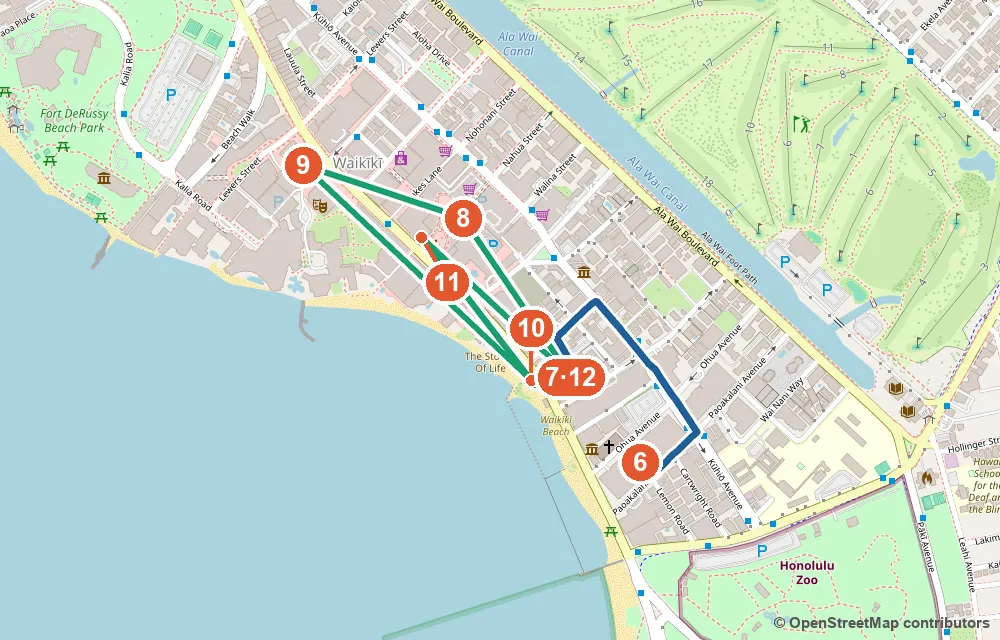
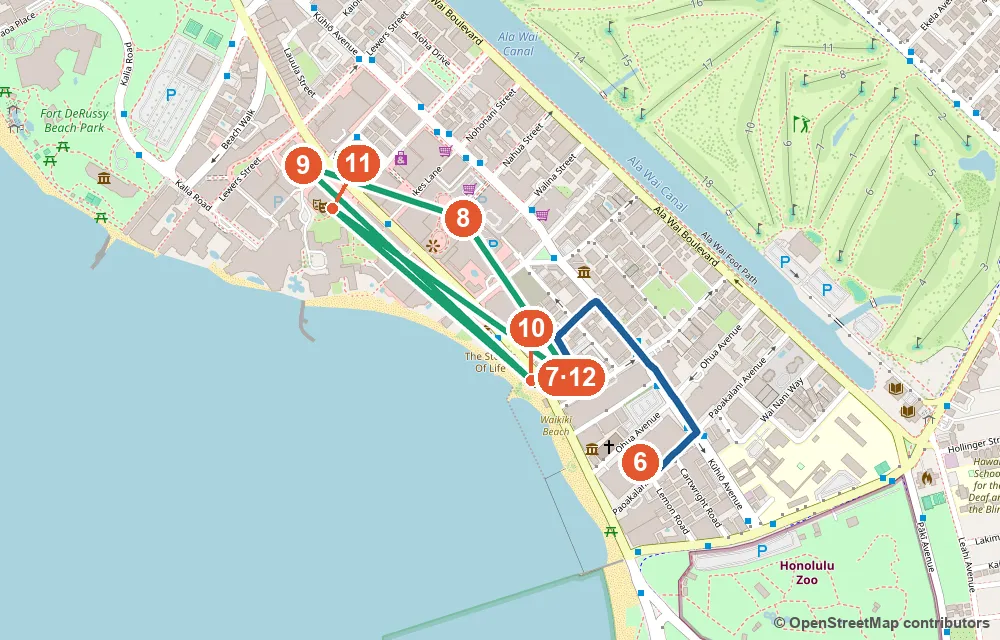
feat: 11/7 Suntory dinner + Diamond Head 14:00 booked

Changed region(s): [[0.31, 0.2188, 0.558, 0.5938]]

diff --git a/index.html b/index.html
@@ -12,7 +12,7 @@
 // GitHub Pages 는 HTML 을 10분 캐시한다(헤더는 못 바꿈) → 열 때마다 version.json 을 캐시 없이 확인해
 // 새 버전이면 주소에 ?v=버전 을 붙여 한 번만 새로 불러온다 (같은 버전으로 이미 시도했으면 멈춤)
 (function () {
-  var BUILD = '3ebc5ff00c';
+  var BUILD = 'e0d11f550a';
   try {
     fetch('version.json?t=' + Date.now(), { cache: 'no-store' })
       .then(function (r) { return r.ok ? r.json() : null; })
@@ -337,7 +337,7 @@ footer { max-width: 1100px; margin: 0 auto; padding: 0 16px 48px; color: var(--m
 
 <div class="wx-summary">🌤 <b>날씨</b> 낮 27~30°C · 밤 21~24°C · 비 확률 대부분 15~30% (11/10만 65%, 짧은 소나기) · 동북동 무역풍 낮 평균 초속 5~8m · 돌풍 15~19m (모자 턱끈) · 일몰 17:52 — <span>미국 기상청 + Open-Meteo 수치모델 (11/3) · 날짜별 비 확률·기온·바람은 각 일정 맨 위에</span></div>
 <section class="sec alert"><div class="sec-head"><span class="sec-ic">🚨</span><h2 id="지금-예약확인할-것">지금 예약·확인할 것</h2></div>
-<div class="todo-grid"><div class="todo"><span class="when">예약 🔁 <strong>다시 예약 (11/5 중)</strong></span><h4><strong>다이아몬드헤드</strong> 입장+주차</h4><div class="visit">📅 <span>가는 날</span> <strong>11/7 (토) 14:00–16:00 주차 슬롯</strong> · 5명 입장 (10:00 예약은 취소 — 작은형 오전 개인 일정)</div><div class="where"><a href="https://gostateparks.hawaii.gov/diamondhead" target="_blank" rel="noopener">gostateparks.hawaii.gov/diamondhead</a></div><div class="memo"><strong>14:30까지 주차장 도착</strong> · $5×5 + 주차 $10 = $35 · 입장 QR 1회용 → 티켓을 내려받아 폰에 저장</div></div><div class="todo"><span class="when">예약 ✅ <strong>예약 완료 (작은형)</strong></span><h4><strong>USS Arizona</strong> (진주만)</h4><div class="visit">📅 <span>가는 날</span> <strong>11/5 (목) 10:45 투어</strong> · 5명</div><div class="where"><a href="https://recreation.gov" target="_blank" rel="noopener">recreation.gov</a></div><div class="memo"><strong>09:45까지 방문자센터 도착</strong> (공식: 1시간 전) · 극장 체크인 10:45의 10~15분 전 · 가방 반입 금지 (지갑·폰·물병만) · 주차 $7</div></div><div class="todo"><span class="when">예약 지금</span><h4>저녁 예약 (5명)</h4><div class="visit">📅 <span>가는 날</span> <del>11/4 DECK.</del> (❌ 취소 — 마루가메 우동으로) · <strong>11/6 (금) 17:00</strong> Buzz's · <strong>11/7 (토) 19:15</strong> 🍺 Maui Brewing 와이키키 (훌라 쇼 뒤)</div><div class="where">전화·OpenTable</div><div class="memo">Buzz's ☎ 808-261-4661 · 🍝 <strong>11/5 Arancino di Mare</strong> (메리어트 1층)는 OpenTable 예약 권장 — <del>Yard House</del>는 뺌 (11/4) · 11/9 Waikiki Brewing은 <strong>예약 없이</strong> 바로 가요</div></div><div class="todo"><span class="when">예약 지금</span><h4>아침 예약 (5명)</h4><div class="visit">📅 <span>가는 날</span> <strong>11/8 (일) 08:00</strong> Duke's 조식 뷔페 · <strong>11/10 (화) 07:15</strong> Heavenly</div><div class="where">OpenTable · 전화</div><div class="memo">Duke's 조식 성인 $29 (07:00–11:00) · Heavenly는 아침 5인 예약 되는지 전화로 확인 (☎ 808-923-1100)</div></div><div class="todo"><span class="when">예약 지금</span><h4>PCC 패키지 (5명)</h4><div class="visit">📅 <span>가는 날</span> <strong>11/10 (화)</strong> 12:25 도착 · 루아우 16:40경 · 공연 19:15</div><div class="where"><a href="https://polynesia.com" target="_blank" rel="noopener">polynesia.com</a></div><div class="memo">일·수 휴무 · 운전 부담 크면 PCC 왕복 버스 $28/인</div></div></div>
+<div class="todo-grid"><div class="todo"><span class="when">예약 ✅ <strong>예약 완료 (11/5)</strong></span><h4><strong>다이아몬드헤드</strong> 입장+주차</h4><div class="visit">📅 <span>가는 날</span> <strong>11/7 (토) 14:00–16:00 주차 + 5명 입장</strong> · $35 결제 끝</div><div class="where"><a href="https://gostateparks.hawaii.gov/diamondhead" target="_blank" rel="noopener">gostateparks.hawaii.gov/diamondhead</a></div><div class="memo"><strong>14:30까지 주차장 도착</strong> (주차 시간 시작 30분 안 — 늦으면 환불 불가) · 입장 QR 1회용 → 티켓 내려받아 폰에 저장</div></div><div class="todo"><span class="when">예약 ✅ <strong>예약 완료 (작은형)</strong></span><h4><strong>USS Arizona</strong> (진주만)</h4><div class="visit">📅 <span>가는 날</span> <strong>11/5 (목) 10:45 투어</strong> · 5명</div><div class="where"><a href="https://recreation.gov" target="_blank" rel="noopener">recreation.gov</a></div><div class="memo"><strong>09:45까지 방문자센터 도착</strong> (공식: 1시간 전) · 극장 체크인 10:45의 10~15분 전 · 가방 반입 금지 (지갑·폰·물병만) · 주차 $7</div></div><div class="todo"><span class="when">예약 지금</span><h4>저녁 예약 (5명)</h4><div class="visit">📅 <span>가는 날</span> <del>11/4 DECK.</del> (❌ 취소 — 마루가메 우동으로) · <strong>11/6 (금) 17:00</strong> Buzz's · <strong>11/7 (토) 19:15</strong> 🍚 <strong>Suntory</strong> (일식 · 훌라 쇼 뒤 · OpenTable)</div><div class="where">전화·OpenTable</div><div class="memo">Buzz's ☎ 808-261-4661 · 🍝 <strong>11/5 Arancino di Mare</strong> (메리어트 1층)는 OpenTable 예약 권장 — <del>Yard House</del>는 뺌 (11/4) · 11/9 Waikiki Brewing은 <strong>예약 없이</strong> 바로 가요</div></div><div class="todo"><span class="when">예약 지금</span><h4>아침 예약 (5명)</h4><div class="visit">📅 <span>가는 날</span> <strong>11/8 (일) 08:00</strong> Duke's 조식 뷔페 · <strong>11/10 (화) 07:15</strong> Heavenly</div><div class="where">OpenTable · 전화</div><div class="memo">Duke's 조식 성인 $29 (07:00–11:00) · Heavenly는 아침 5인 예약 되는지 전화로 확인 (☎ 808-923-1100)</div></div><div class="todo"><span class="when">예약 지금</span><h4>PCC 패키지 (5명)</h4><div class="visit">📅 <span>가는 날</span> <strong>11/10 (화)</strong> 12:25 도착 · 루아우 16:40경 · 공연 19:15</div><div class="where"><a href="https://polynesia.com" target="_blank" rel="noopener">polynesia.com</a></div><div class="memo">일·수 휴무 · 운전 부담 크면 PCC 왕복 버스 $28/인</div></div></div>
 
 </section><section class="sec flight"><div class="sec-head"><span class="sec-ic">✈</span><h2 id="항공-서울팀-3명-현지-시각">항공</h2><small>서울팀 3명 (현지 시각)</small></div>
 <div class="tickets"><div class="ticket"><div class="tk-top"><span>가는 편</span><b>KE053</b></div><div class="route"><div class="city"><small>11/4 (수)</small><b>20:50</b><span>ICN · 인천 T2</span></div><div class="plane">✈</div><div class="city r"><small>11/4 (수)</small><b>09:40</b><span>HNL · 호놀룰루</span></div></div><div class="tk-meta"><div><span>공항 도착 목표</span><b>17:50</b></div><div><span>체크인 마감</span><b>19:50</b></div><div><span>탑승 시작</span><b>20:15</b></div></div></div><div class="ticket"><div class="tk-top"><span>오는 편</span><b>KE054</b></div><div class="route"><div class="city"><small>11/11 (수)</small><b>12:05</b><span>HNL · 호놀룰루</span></div><div class="plane">✈</div><div class="city r"><small>11/12 (목)</small><b>17:35</b><span>ICN · 인천 T2</span></div></div><div class="tk-meta"><div><span>공항 도착 목표</span><b>08:20</b></div><div><span>체크인 마감</span><b>출발 1시간 전</b></div><div><span>탑승 시작</span><b>11:30</b></div></div></div></div>
@@ -351,7 +351,7 @@ footer { max-width: 1100px; margin: 0 auto; padding: 0 16px 48px; color: var(--m
 </section><section class="sec hotel"><div class="sec-head"><span class="sec-ic">🏨</span><h2 id="숙소-메리어트-3박-비치타워-콘도-4박-걸어서-3분">숙소</h2><small>메리어트 3박 · 비치타워 콘도 4박 (걸어서 3분)</small></div>
 <div class="tickets"><div class="hotel"><div class="tk-top"><span>11/4 (수) – 11/7 (토) · 3박 · 아고다</span></div><div class="ht-name">와이키키 비치 메리어트 리조트 &amp; 스파</div><div class="ht-times"><div><span>체크인</span><b>15:00</b><small>11/4 (수)</small></div><div><span>체크아웃</span><b>11:00</b><small>11/7 (토)</small></div></div><dl class="ht-facts"><dt>☎ 전화</dt><dd><ul class="ht-fac"><li>한국에서 <strong>001-1-808-922-6611</strong> (KT 001 · LG U+ 002 · SK 00700)</li><li>휴대폰은 <strong><a href="tel:+18089226611">+1 808 922 6611</a></strong> (누르면 바로 걸려요)</li><li>프런트 24시간 · 하와이는 한국보다 19시간 늦어요</li></ul></dd><dt>🛏 방</dt><dd><strong>객실 2개 예약 확정</strong> — 방 1: 시티뷰 퀸 1 또는 더블 2 (성인 2) · 방 2: 와이키키 시티뷰 킹 1 + 소파베드, 발코니 (성인 3) — <strong>침대는 킹 1 + 소파베드뿐</strong> (추가 침대·침대 2개 방 변경 안 됨, 11/3 확인)</dd><dt>🚿 욕실</dt><dd>객실마다 1개</dd><dt>🍳 조식</dt><dd><strong>방마다 성인 2명 포함</strong> (전화 확인 11/3) — 2번 방 세 번째 사람은 <strong>추가 요금</strong> · 2층 Kuhio Beach Grill 뷔페 (05:00–11:00)</dd><dt>🅿 주차</dt><dd><strong>호텔 셀프 주차</strong> $65/일 · 발렛 $80/일 (세금 별도 · 셀프 3박 약 $204) — 근처 반얀 주차장은 24시간 $50 (공사 중 요금 · 높이 183cm 제한)이라 하루 $15 정도 차이 · ⚠ 후기: 셀프 주차장이 좁고 자주 꽉 차서 발렛으로 돌린 일, SUV가 높아 못 들어가 발렛 쓴 일 있음 (2024~2026) · <strong>미리 예약 필요 없음</strong> (11/3 호텔 확인)</dd><dt>🏝 시설</dt><dd><ul class="ht-fac"><li>🏊 <strong>수영장 2개</strong> — 옥상 Queensbreak에 가족 풀 + 21세 이상 성인 풀, 온수 욕조 (07:00–22:00)</li><li>🍽 <strong>식당·바·카페 7곳</strong> — Kuhio Beach Grill (조식 뷔페 05–11, 2층) · Arancino di Mare (이탈리안 저녁 17–21) · Queensbreak 레스토랑·풀사이드 바 (옥상 11–23) · 스타벅스 2곳 · Island Vintage 셰이브아이스 — Sansei·DK Steakhouse는 2025.9 폐업</li><li>🛒 <strong>ABC 스토어</strong> (로비층 편의점)</li><li>🧺 <strong>셀프 세탁실</strong> (Paoakalani 타워 2층) — 세탁·건조 각 $6.50 (2026.5 투숙 후기), 카드 결제 · 드라이클리닝 서비스 별도</li><li>💆 Royal Kaila 스파 (09–18) · 피트니스 24시간</li><li>🌺 우쿨렐레·훌라·레이 만들기 수업 (리조트피 포함)</li><li>🎭 Paina Waikiki 루아우 디너쇼 (월·수·금·토·일, 별도 예약)</li><li>🗣 일본어 직원 있음 · 한국어 직원 없음 (11/3 전화 확인)</li></ul></dd></dl><ul class="ht-notes"><li>11/4 체크인 전·11/7 체크아웃 뒤 <strong>벨데스크 짐 보관</strong></li><li>리조트피 객실당 1박 $59 + 세금 (약 $70, 현장 결제 — Wi-Fi·비치체어 또는 부기보드·문화 수업 포함)</li><li>체크인은 예약자 본인 여권 + 실물 카드</li></ul></div><div class="hotel"><div class="tk-top"><span>11/7 (토) – 11/11 (수) · 4박</span></div><div class="ht-name">와이키키 비치 타워 콘도 (에어비앤비)</div><div class="ht-times"><div><span>체크인</span><b>15:00</b><small>11/7 (토)</small></div><div><span>체크아웃</span><b>11:00</b><small>11/11 (수)</small></div></div><dl class="ht-facts"><dt>☎ 전화</dt><dd><ul class="ht-fac"><li>관리 회사(캡틴 쿡 리조트)는 <strong>에어비앤비 앱 메시지</strong></li><li>관리자 전화번호는 11/5 15:00(하와이)부터 앱의 입실 안내에 나와요</li></ul></dd><dt>🛏 방</dt><dd><strong>침실 2개</strong> — 안방 킹 1 · 게스트룸 트윈 2 (요청 시 킹 1) · 거실 퀸 소파베드 · 최대 6명 · 실내 약 107㎡ + 오션뷰 발코니</dd><dt>🚿 욕실</dt><dd><strong>2개</strong> (안방 전용 1 + 공용 1)</dd><dt>🍳 조식</dt><dd>없음 — 주방 완비, 아침은 장봐서</dd><dt>🅿 주차</dt><dd><strong>발렛 1대 무료</strong> (차 높이 188cm까지, 셔틀 크기 밴 불가) · 차량 사전 등록 필요 없음 · 머무는 동안만 · 리조트피 없음</dd><dt>🏝 시설</dt><dd><ul class="ht-fac"><li>🧺 집 안 <strong>세탁기·건조기</strong> (무료)</li><li>🏊 건물 수영장·스파·피트니스</li><li>🍳 주방 완비</li></ul></dd></dl><ul class="ht-notes"><li>체크인·체크아웃 시각은 <strong>에어비앤비 예약·호스트 안내 기준</strong></li><li>도착 후 <strong>관리자에게 전화</strong>해서 체크인</li><li>매일 청소·수건 보충 없음</li><li>커피·조미료·식용유·지퍼백 없음</li></ul></div></div>
 </section><section class="sec overview"><div class="sec-head"><span class="sec-ic">🗓</span><h2 id="1-한눈에-보기">한눈에 보기</h2></div>
-<div class="ov-grid"><a class="ov c0" href="#114-수-도착-짐부터-호텔에-가볍게"><div class="ov-head"><b>11/4</b><em>수</em><span>도착</span></div><ul><li><i>🛍</i>월마트 / 돈키호테 (장보기)</li><li><i>🍳</i>기내</li><li><i>🍱</i>Highway Inn 카카아코</li><li><i>🍽</i>🌅 DECK. 일몰 (17:30)</li></ul></a><a class="ov c1" href="#115-목-진주만-와이켈레-아울렛"><div class="ov-head"><b>11/5</b><em>목</em><span>진주만</span></div><ul><li><i>🛍</i><strong>와이켈레 아울렛</strong></li><li><i>🍳</i>메리어트 조식</li><li><i>🍱</i>Restaurant 604</li><li><i>🍽</i>🍝 Arancino (호텔 1층)</li></ul></a><a class="ov c2" href="#116-금-동부-해안-카일루아-해안-먼저-저녁은-카일루아"><div class="ov-head"><b>11/6</b><em>금</em><span>동부 해안</span></div><ul><li><i>🥾</i><strong>마카푸우 등대</strong> · (선택, 아들) 라니카이 필박스</li><li><i>🛍</i><strong>카일루아</strong> 마노아 초콜릿·Whole Foods·타운</li><li><i>🍳</i>메리어트 조식</li><li><i>🍱</i>Kalapawai Café</li><li><i>🍽</i><strong>Buzz's</strong> (예약)</li></ul></a><a class="ov c3" href="#117-토-kcc-파머스마켓-다이아몬드헤드-알라모아나-숙소-이동"><div class="ov-head"><b>11/7</b><em>토</em><span>이동일</span></div><ul><li><i>🥾</i><strong>다이아몬드헤드</strong> (오후 14시 · 다시 예약)</li><li><i>🛍</i><strong>KCC 파머스마켓 · 🖼 호놀룰루 미술관 · 알라모아나</strong> · 저녁 전 IMP·로열 하와이안 (걸어서)</li><li><i>🍳</i>메리어트 조식</li><li><i>🍱</i>릴리하 베이커리 (알라모아나)</li><li><i>🍽</i>🌺 훌라 쇼 → 🍺 <strong>Maui Brewing</strong></li></ul></a><a class="ov c4" href="#118-일-노스쇼어-종일"><div class="ov-head"><b>11/8</b><em>일</em><span>노스쇼어</span></div><ul><li><i>🥾</i><strong>와이메아 밸리 폭포</strong> · 헤이아우 전망</li><li><i>🛍</i><strong>할레이바 타운</strong> · 돌 플랜테이션</li><li><i>🍳</i>Duke's 조식 뷔페</li><li><i>🍱</i>Giovanni's</li><li><i>🍽</i>Haleiwa Joe's (노을)</li></ul></a><a class="ov c5" href="#119-월-서쪽-해안-93번-드라이브-쇼핑-와이키키-마지막-여유일"><div class="ov-head"><b>11/9</b><em>월</em><span>서쪽 해안·쇼핑</span></div><ul><li><i>🥾</i><strong>93번 서쪽 해안 드라이브</strong> (코올리나 라군·마카하·요코하마 베이)</li><li><i>🛍</i><strong>워드 빌리지 · 돈키호테·월마트</strong></li><li><i>🍳</i>Café Kaila / Hau Tree</li><li><i>🍱</i>Monkeypod Kitchen (코올리나)</li><li><i>🍽</i>🍺 <strong>Waikiki Brewing</strong></li></ul></a><a class="ov c6" href="#1110-화-뵤도인-폴리네시안-문화센터-pcc"><div class="ov-head"><b>11/10</b><em>화</em><span>PCC</span></div><ul><li><i>🥾</i><strong>팔리 전망대 · 뵤도인 사원</strong> (또는 호오말루히아)</li><li><i>🛍</i>후킬라우 마켓플레이스</li><li><i>🍳</i>Heavenly (07:00~)</li><li><i>🍱</i>Seven Brothers / Giovanni's 카후쿠</li><li><i>🍽</i>PCC 루아우</li></ul></a><a class="ov c7" href="#1111-수-출발-veterans-day-공휴일"><div class="ov-head"><b>11/11</b><em>수</em><span>출발</span></div><ul><li><i>🍳</i>Eggs 'n Things 포장 (06:00)</li><li><i>🍱</i>기내</li></ul></a></div>
+<div class="ov-grid"><a class="ov c0" href="#114-수-도착-짐부터-호텔에-가볍게"><div class="ov-head"><b>11/4</b><em>수</em><span>도착</span></div><ul><li><i>🛍</i>월마트 / 돈키호테 (장보기)</li><li><i>🍳</i>기내</li><li><i>🍱</i>Highway Inn 카카아코</li><li><i>🍽</i>🌅 DECK. 일몰 (17:30)</li></ul></a><a class="ov c1" href="#115-목-진주만-와이켈레-아울렛"><div class="ov-head"><b>11/5</b><em>목</em><span>진주만</span></div><ul><li><i>🛍</i><strong>와이켈레 아울렛</strong></li><li><i>🍳</i>메리어트 조식</li><li><i>🍱</i>Restaurant 604</li><li><i>🍽</i>🍝 Arancino (호텔 1층)</li></ul></a><a class="ov c2" href="#116-금-동부-해안-카일루아-해안-먼저-저녁은-카일루아"><div class="ov-head"><b>11/6</b><em>금</em><span>동부 해안</span></div><ul><li><i>🥾</i><strong>마카푸우 등대</strong> · (선택, 아들) 라니카이 필박스</li><li><i>🛍</i><strong>카일루아</strong> 마노아 초콜릿·Whole Foods·타운</li><li><i>🍳</i>메리어트 조식</li><li><i>🍱</i>Kalapawai Café</li><li><i>🍽</i><strong>Buzz's</strong> (예약)</li></ul></a><a class="ov c3" href="#117-토-kcc-파머스마켓-다이아몬드헤드-알라모아나-숙소-이동"><div class="ov-head"><b>11/7</b><em>토</em><span>이동일</span></div><ul><li><i>🥾</i><strong>다이아몬드헤드</strong> (오후 14시 · 다시 예약)</li><li><i>🛍</i><strong>KCC 파머스마켓 · 🖼 호놀룰루 미술관 · 알라모아나</strong> · 저녁 전 IMP·로열 하와이안 (걸어서)</li><li><i>🍳</i>메리어트 조식</li><li><i>🍱</i>릴리하 베이커리 (알라모아나)</li><li><i>🍽</i>🌺 훌라 쇼 → 🍚 <strong>Suntory</strong> (일식)</li></ul></a><a class="ov c4" href="#118-일-노스쇼어-종일"><div class="ov-head"><b>11/8</b><em>일</em><span>노스쇼어</span></div><ul><li><i>🥾</i><strong>와이메아 밸리 폭포</strong> · 헤이아우 전망</li><li><i>🛍</i><strong>할레이바 타운</strong> · 돌 플랜테이션</li><li><i>🍳</i>Duke's 조식 뷔페</li><li><i>🍱</i>Giovanni's</li><li><i>🍽</i>Haleiwa Joe's (노을)</li></ul></a><a class="ov c5" href="#119-월-서쪽-해안-93번-드라이브-쇼핑-와이키키-마지막-여유일"><div class="ov-head"><b>11/9</b><em>월</em><span>서쪽 해안·쇼핑</span></div><ul><li><i>🥾</i><strong>93번 서쪽 해안 드라이브</strong> (코올리나 라군·마카하·요코하마 베이)</li><li><i>🛍</i><strong>워드 빌리지 · 돈키호테·월마트</strong></li><li><i>🍳</i>Café Kaila / Hau Tree</li><li><i>🍱</i>Monkeypod Kitchen (코올리나)</li><li><i>🍽</i>🍺 <strong>Waikiki Brewing</strong></li></ul></a><a class="ov c6" href="#1110-화-뵤도인-폴리네시안-문화센터-pcc"><div class="ov-head"><b>11/10</b><em>화</em><span>PCC</span></div><ul><li><i>🥾</i><strong>팔리 전망대 · 뵤도인 사원</strong> (또는 호오말루히아)</li><li><i>🛍</i>후킬라우 마켓플레이스</li><li><i>🍳</i>Heavenly (07:00~)</li><li><i>🍱</i>Seven Brothers / Giovanni's 카후쿠</li><li><i>🍽</i>PCC 루아우</li></ul></a><a class="ov c7" href="#1111-수-출발-veterans-day-공휴일"><div class="ov-head"><b>11/11</b><em>수</em><span>출발</span></div><ul><li><i>🍳</i>Eggs 'n Things 포장 (06:00)</li><li><i>🍱</i>기내</li></ul></a></div>
 
 </section><section class="sec days"><div class="sec-head"><span class="sec-ic">📍</span><h2 id="2-날짜별-상세-시간-장소-주차">날짜별 상세</h2><small>시간 · 장소 · 주차</small></div>
 <blockquote>
@@ -403,7 +403,7 @@ footer { max-width: 1100px; margin: 0 auto; padding: 0 16px 48px; color: var(--m
 </ul>
 </div></article><article class="day c3" data-date="11/7"><div class="day-head"><div class="date-badge"><b>11/7</b><span>토요일</span></div><div class="day-title"><h3 id="117-토-kcc-파머스마켓-다이아몬드헤드-알라모아나-숙소-이동">KCC 파머스마켓 → 다이아몬드헤드 → 알라모아나 → 숙소 이동</h3></div></div><div class="day-body">
 <p class="wx">🌤 다이아몬드헤드 ☔ 19% · 🌡 24~29°C · 💨 평균 초속 6m · 돌풍 18m (북동) — 오전 한때 소나기 뒤 갬 · 그늘 없음 → 물·모자 필수</p>
-<figure class="routemap"><img src="maps/1107.webp?v=0a1d0755c6" loading="lazy" width="1000" height="640" alt="11/7 지도"><figcaption><div class="rm-stops"><b>①</b> 메리어트 → <b>②</b> KCC 파머스마켓 → <b>③</b> 호놀룰루 미술관 → <b>④</b> 알라모아나 센터 → <b>⑤</b> 다이아몬드헤드 → <b>⑥</b> 메리어트 → <b>⑦</b> 비치타워 콘도 → <b>⑧</b> 인터내셔널 마켓 플레이스 → <b>⑨</b> 로열 하와이안 센터 → <b>⑩</b> 쿠히오 비치 훌라 쇼 → <b>⑪</b> Maui Brewing → <b>⑫</b> 비치타워 콘도</div><div class="rm-meta">🚗 하루 운전 약 24km · 막히지 않으면 약 51분 · 파란 선 = 차 · 초록 선 = 걷기</div><div class="rm-links">🧭 구글 지도 길찾기 <a href="https://www.google.com/maps/dir/?api=1&amp;origin=Waikiki+Beach+Marriott+Resort+%26+Spa+2552+Kalakaua+Ave&amp;destination=Diamond+Head+State+Monument+parking&amp;travelmode=driving&amp;waypoints=KCC+Farmers+Market+4303+Diamond+Head+Rd%7CHonolulu+Museum+of+Art+900+S+Beretania+St+Honolulu%7CAla+Moana+Center" target="_blank" rel="noopener">①→⑤</a><a href="https://www.google.com/maps/dir/?api=1&amp;origin=Diamond+Head+State+Monument+parking&amp;destination=Waikiki+Beach+Tower+2470+Kalakaua+Ave+Honolulu&amp;travelmode=driving&amp;waypoints=Waikiki+Beach+Marriott+Resort+%26+Spa+2552+Kalakaua+Ave" target="_blank" rel="noopener">⑤→⑦</a><a href="https://www.google.com/maps/dir/?api=1&amp;origin=Waikiki+Beach+Tower+2470+Kalakaua+Ave+Honolulu&amp;destination=Maui+Brewing+Co+Waikiki+2300+Kalakaua+Ave+Honolulu&amp;travelmode=walking&amp;waypoints=International+Market+Place+Waikiki%7CRoyal+Hawaiian+Center%7CKuhio+Beach+Hula+Mound+Honolulu" target="_blank" rel="noopener">🚶 ⑦→⑪</a><a href="https://www.google.com/maps/dir/?api=1&amp;origin=Maui+Brewing+Co+Waikiki+2300+Kalakaua+Ave+Honolulu&amp;destination=Waikiki+Beach+Tower+2470+Kalakaua+Ave+Honolulu&amp;travelmode=walking" target="_blank" rel="noopener">🚶 ⑪→⑫</a></div></figcaption><details class="rm-zoom"><summary>🔍 확대 지도 — 와이키키 걷기 (⑥~⑫)</summary><img src="maps/1107-zoom.webp?v=0a1d0755c6" loading="lazy" width="1000" height="640" alt="11/7 와이키키 걷기 확대 지도"></details></figure><div class="gallery"><figure><a href="https://commons.wikimedia.org/wiki/File:Diamond_Head_Hawaii_From_Round_Top_Rd.JPG" target="_blank" rel="noopener"><img src="https://thumb.wikimedia.org/wikipedia/commons/thumb/9/93/Diamond_Head_Hawaii_From_Round_Top_Rd.JPG/960px-Diamond_Head_Hawaii_From_Round_Top_Rd.JPG?utm_source=commons.wikimedia.org&utm_campaign=imageinfo&utm_content=thumbnail" alt="다이아몬드헤드" loading="lazy" decoding="async"></a><figcaption><b>다이아몬드헤드</b><small>© mar1865 · CC BY-SA 3.0</small></figcaption></figure><figure><a href="https://commons.wikimedia.org/wiki/File:Loco_moco_(32605169782).jpg" target="_blank" rel="noopener"><img src="https://thumb.wikimedia.org/wikipedia/commons/thumb/b/b3/Loco_moco_%2832605169782%29.jpg/960px-Loco_moco_%2832605169782%29.jpg?utm_source=commons.wikimedia.org&utm_campaign=imageinfo&utm_content=thumbnail" alt="로코모코 — Liliha Bakery 점심" loading="lazy" decoding="async"></a><figcaption><b>로코모코 — Liliha Bakery 점심</b><small>© California Cow from Seattle, USA · CC BY 2.0</small></figcaption></figure><figure><a href="https://commons.wikimedia.org/wiki/File:Ala_Moana_Centerstage_at_the_Ala_Mona_Center.jpg" target="_blank" rel="noopener"><img src="https://thumb.wikimedia.org/wikipedia/commons/thumb/6/6c/Ala_Moana_Centerstage_at_the_Ala_Mona_Center.jpg/960px-Ala_Moana_Centerstage_at_the_Ala_Mona_Center.jpg?utm_source=commons.wikimedia.org&utm_campaign=imageinfo&utm_content=thumbnail" alt="알라모아나 센터" loading="lazy" decoding="async"></a><figcaption><b>알라모아나 센터</b><small>© Richard N Horne · CC BY-SA 4.0</small></figcaption></figure><figure><a href="https://commons.wikimedia.org/wiki/File:Halekulani_Hotel.jpg" target="_blank" rel="noopener"><img src="https://thumb.wikimedia.org/wikipedia/commons/thumb/e/e6/Halekulani_Hotel.jpg/960px-Halekulani_Hotel.jpg?utm_source=commons.wikimedia.org&utm_campaign=imageinfo&utm_content=thumbnail" alt="할레쿨라니 (House Without a Key)" loading="lazy" decoding="async"></a><figcaption><b>할레쿨라니 (House Without a Key)</b><small>© TastyPoutine · CC BY-SA 3.0</small></figcaption></figure></div><ol class="tl"><li><div class="t">08:00–08:40</div><div class="c"><div class="place">메리어트 Kuhio Beach Grill</div><div class="what">조식 (포함)</div></div></li><li><div class="t">08:40–09:00</div><div class="c"><div class="place">🧳 <strong>메리어트 체크아웃</strong> (11:00 마감 전에 미리)</div><div class="what">짐은 <strong>벨데스크에 16시쯤까지 보관</strong> — 차에 두지 않기 · <strong>작은형은 오전 개인 일정</strong> (차를 쓰면 우리는 우버 XL·택시)</div></div></li><li><div class="t">09:00–10:00</div><div class="c"><div class="place">🛍 <a href="https://www.google.com/maps/search/?api=1&query=KCC+Farmers+Market+Honolulu" target="_blank" rel="noopener"><strong>KCC 파머스마켓</strong></a> (토 07:30–11:00 · 택시 10분)</div><div class="what">구운 전복, 그린토마토 튀김, 열대과일 · 인기 품목 일찍 품절 · 작은형이 KCC까지 태워 주면 택시 한 번 줄어요</div><div class="park">🅿 택시 내리는 곳 (차면 Lot C·E 무료)</div></div></li><li><div class="t">10:15–12:00</div><div class="c"><div class="place">🖼 <a href="https://www.google.com/maps/search/?api=1&query=Honolulu+Museum+of+Art+900+S+Beretania+St+Honolulu" target="_blank" rel="noopener"><strong>호놀룰루 미술관 (HoMA)</strong></a> (900 S Beretania St · 토 10–18 · KCC에서 택시 약 15분)</div><div class="what">하와이 최대 미술관 (1927년 개관 · 5만 점 이상) · 반 고흐 「밀밭」·모네 「수련」·고갱 (전시 중인지 미리 확인) · 일본 우키요에 판화 1만 점 이상 (몇 달마다 교체) · 아시아·태평양·하와이 미술 · 안뜰 정원 · <strong>성인 $25 (18세 이하 무료) → 5명 $125</strong> · 카페는 입장권 없이도 이용</div><div class="park">🅿 택시 내리는 곳 (차면 뒤편 1111 Victoria St · 카드만 · 시간당 $3)</div></div></li><li><div class="t">12:10–13:15</div><div class="c"><div class="place">🛍 <a href="https://www.google.com/maps/search/?api=1&query=Ala+Moana+Center" target="_blank" rel="noopener"><strong>알라모아나 센터</strong></a> (10–20 · 미술관에서 택시 약 5분)</div><div class="what">점심: <strong>Liliha Bakery</strong> (Macy's 3층, 코코퍼프 · 🍴 <strong>로코모코는 여기서</strong>) 또는 Makai Market 푸드코트 · 쇼핑은 짧게 (미술관 뒤라 1시간 남짓 — 점심·장보기 위주) · Target(2층) · <strong>마지막 30분 Foodland Farms (몰 안)에서 상하지 않는 콘도 아침거리 장보기</strong> (우유·과일은 저녁에 콘도 근처 ABC 스토어에서) — 콘도에 커피·조미료·식용유·지퍼백 없음</div><div class="park">🅿 <strong>쇼핑객 무료</strong> — 몰 밖 용무로 세우면 견인</div></div></li><li><div class="t">13:15–13:45</div><div class="c"><div class="place">🚗 <strong>작은형 합류</strong> — 알라모아나로 데리러 와서 다이아몬드헤드로 (약 15분)</div></div></li><li><div class="t">14:00–16:00</div><div class="c"><div class="place">🥾 <a href="https://www.google.com/maps/search/?api=1&query=Diamond+Head+State+Monument" target="_blank" rel="noopener"><strong>다이아몬드헤드</strong></a> (오후로 옮김) · 🔁 <strong>다시 예약: 14:00–16:00 주차 슬롯</strong></div><div class="what"><strong>14:30까지 주차장 도착</strong> (늦으면 환불 불가 · 입장은 16:00 시간대가 마지막) · 입장 후 바로 등산 · 왕복 2.6km · +170m · 마지막 계단 · <strong>오후 햇볕이 가장 강한 시간 → 물 1인 1L·모자·선크림 필수</strong> · <strong>15:35~15:40 차량 복귀 목표</strong> — 늦으면 정상보다 시간 우선</div><div class="park">🅿 <strong>예약 주차 2시간 → 16:00까지 출차</strong></div><figure class="routemap"><img src="maps/hike-diamondhead.webp?v=4c3b9f01a6" loading="lazy" width="1000" height="640" alt="하이킹: 다이아몬드헤드 지도"><figcaption><div class="rm-stops"><b>🥾 다이아몬드헤드 코스</b> · <b>①</b> 주차장·입구 → <b>②</b> 정상 전망대</div><div class="rm-meta">왕복 2.6km · +171m · 마지막 계단·터널 · 초록 선 = 걷는 길 (대략)</div><div class="rm-links">🧭 구글 지도 <a href="https://www.google.com/maps/search/?api=1&amp;query=21.26354,-157.80603" target="_blank" rel="noopener">📍 입구</a></div></figcaption></figure></div></li><li><div class="t">16:05–16:40</div><div class="c"><div class="place">🧳 <strong>숙소 이동</strong> — 메리어트 벨데스크에서 짐 찾기 → 렌트카에 싣고 비치타워로 → <strong>체크인</strong> (15시부터 가능)</div><div class="what">도착하면 <strong>관리자에게 전화</strong> → 만나서 체크인 또는 셀프 체크인 안내 (관리자 연락처는 11/4 자동 발송 · 전화는 한국 번호 로밍 또는 작은형 폰) · 휴식</div><div class="park">🅿 <strong>발렛 1대 무료</strong> (높이 6'2" = 188cm · 차량 사전 등록 필요 없음 · 머무는 동안만 — 호스트 확인 11/3) · 차는 칼라카우아 → <strong>릴리우오칼라니 애비뉴</strong> 좌회전, 왼쪽 건물</div></div></li><li><div class="t">16:45–17:25</div><div class="c"><div class="place">🛍 <a href="https://www.google.com/maps/search/?api=1&query=International+Market+Place+Waikiki" target="_blank" rel="noopener"><strong>인터내셔널 마켓 플레이스 → 로열 하와이안 센터</strong></a> (토 10–21, 걸어서)</div><div class="what">콘도에서 칼라카우아 길을 따라 저녁 식당 가는 길 — 쇼핑 리뷰 순위 2·3위 (10,175 · 12,716) · 인터내셔널 마켓 플레이스 가운데 큰 반얀트리</div><div class="park">🅿 도보 (차는 콘도 발렛에 두기)</div></div></li><li><div class="t">17:30–17:55</div><div class="c"><div class="place">🌅 <strong>쿠히오 비치</strong> 일몰 (17:51)</div><div class="what">로열 하와이안 센터에서 해변 따라 걸어서 10분</div><div class="park">🅿 도보</div></div></li><li><div class="t">18:00–19:00</div><div class="c"><div class="place">🌺 <strong>쿠히오 비치 무료 훌라 쇼</strong> (화·목·토 · 11~1월 18:00)</div><div class="what">듀크 동상 옆 훌라 마운드 · 무료, 예약 없음 · 앉을 수건 있으면 좋아요 · 열리는지 현장 확인 (☎ 808-843-8002)</div><div class="park">🅿 도보</div></div></li><li><div class="t">19:15–20:45</div><div class="c"><div class="place">🍺 <a href="https://www.google.com/maps/search/?api=1&query=Maui+Brewing+Co+Waikiki+2300+Kalakaua+Ave+Honolulu" target="_blank" rel="noopener"><strong>Maui Brewing Co. 와이키키</strong></a> (아웃리거 비치콤버, 2300 Kalakaua · 11:00–23:00)</div><div class="what">저녁 — 직접 만든 하와이 맥주 · 라이브 음악 · 🍴 <strong>주문: 피자·피시 타코</strong> (버거는 피하기) · <strong>OpenTable 예약</strong> · 대안: House Without a Key (할레쿨라니, 매일 밤 훌라)</div><div class="park">🅿 훌라 쇼 장소에서 걸어서 5분 · 콘도까지 걸어서 7분</div></div></li></ol>
+<figure class="routemap"><img src="maps/1107.webp?v=2a61782fdf" loading="lazy" width="1000" height="640" alt="11/7 지도"><figcaption><div class="rm-stops"><b>①</b> 메리어트 → <b>②</b> KCC 파머스마켓 → <b>③</b> 호놀룰루 미술관 → <b>④</b> 알라모아나 센터 → <b>⑤</b> 다이아몬드헤드 → <b>⑥</b> 메리어트 → <b>⑦</b> 비치타워 콘도 → <b>⑧</b> 인터내셔널 마켓 플레이스 → <b>⑨</b> 로열 하와이안 센터 → <b>⑩</b> 쿠히오 비치 훌라 쇼 → <b>⑪</b> Suntory → <b>⑫</b> 비치타워 콘도</div><div class="rm-meta">🚗 하루 운전 약 24km · 막히지 않으면 약 51분 · 파란 선 = 차 · 초록 선 = 걷기</div><div class="rm-links">🧭 구글 지도 길찾기 <a href="https://www.google.com/maps/dir/?api=1&amp;origin=Waikiki+Beach+Marriott+Resort+%26+Spa+2552+Kalakaua+Ave&amp;destination=Diamond+Head+State+Monument+parking&amp;travelmode=driving&amp;waypoints=KCC+Farmers+Market+4303+Diamond+Head+Rd%7CHonolulu+Museum+of+Art+900+S+Beretania+St+Honolulu%7CAla+Moana+Center" target="_blank" rel="noopener">①→⑤</a><a href="https://www.google.com/maps/dir/?api=1&amp;origin=Diamond+Head+State+Monument+parking&amp;destination=Waikiki+Beach+Tower+2470+Kalakaua+Ave+Honolulu&amp;travelmode=driving&amp;waypoints=Waikiki+Beach+Marriott+Resort+%26+Spa+2552+Kalakaua+Ave" target="_blank" rel="noopener">⑤→⑦</a><a href="https://www.google.com/maps/dir/?api=1&amp;origin=Waikiki+Beach+Tower+2470+Kalakaua+Ave+Honolulu&amp;destination=Restaurant+Suntory+Royal+Hawaiian+Center+Honolulu&amp;travelmode=walking&amp;waypoints=International+Market+Place+Waikiki%7CRoyal+Hawaiian+Center%7CKuhio+Beach+Hula+Mound+Honolulu" target="_blank" rel="noopener">🚶 ⑦→⑪</a><a href="https://www.google.com/maps/dir/?api=1&amp;origin=Restaurant+Suntory+Royal+Hawaiian+Center+Honolulu&amp;destination=Waikiki+Beach+Tower+2470+Kalakaua+Ave+Honolulu&amp;travelmode=walking" target="_blank" rel="noopener">🚶 ⑪→⑫</a></div></figcaption><details class="rm-zoom"><summary>🔍 확대 지도 — 와이키키 걷기 (⑥~⑫)</summary><img src="maps/1107-zoom.webp?v=2a61782fdf" loading="lazy" width="1000" height="640" alt="11/7 와이키키 걷기 확대 지도"></details></figure><div class="gallery"><figure><a href="https://commons.wikimedia.org/wiki/File:Diamond_Head_Hawaii_From_Round_Top_Rd.JPG" target="_blank" rel="noopener"><img src="https://thumb.wikimedia.org/wikipedia/commons/thumb/9/93/Diamond_Head_Hawaii_From_Round_Top_Rd.JPG/960px-Diamond_Head_Hawaii_From_Round_Top_Rd.JPG?utm_source=commons.wikimedia.org&utm_campaign=imageinfo&utm_content=thumbnail" alt="다이아몬드헤드" loading="lazy" decoding="async"></a><figcaption><b>다이아몬드헤드</b><small>© mar1865 · CC BY-SA 3.0</small></figcaption></figure><figure><a href="https://commons.wikimedia.org/wiki/File:Loco_moco_(32605169782).jpg" target="_blank" rel="noopener"><img src="https://thumb.wikimedia.org/wikipedia/commons/thumb/b/b3/Loco_moco_%2832605169782%29.jpg/960px-Loco_moco_%2832605169782%29.jpg?utm_source=commons.wikimedia.org&utm_campaign=imageinfo&utm_content=thumbnail" alt="로코모코 — Liliha Bakery 점심" loading="lazy" decoding="async"></a><figcaption><b>로코모코 — Liliha Bakery 점심</b><small>© California Cow from Seattle, USA · CC BY 2.0</small></figcaption></figure><figure><a href="https://commons.wikimedia.org/wiki/File:Ala_Moana_Centerstage_at_the_Ala_Mona_Center.jpg" target="_blank" rel="noopener"><img src="https://thumb.wikimedia.org/wikipedia/commons/thumb/6/6c/Ala_Moana_Centerstage_at_the_Ala_Mona_Center.jpg/960px-Ala_Moana_Centerstage_at_the_Ala_Mona_Center.jpg?utm_source=commons.wikimedia.org&utm_campaign=imageinfo&utm_content=thumbnail" alt="알라모아나 센터" loading="lazy" decoding="async"></a><figcaption><b>알라모아나 센터</b><small>© Richard N Horne · CC BY-SA 4.0</small></figcaption></figure><figure><a href="https://commons.wikimedia.org/wiki/File:Halekulani_Hotel.jpg" target="_blank" rel="noopener"><img src="https://thumb.wikimedia.org/wikipedia/commons/thumb/e/e6/Halekulani_Hotel.jpg/960px-Halekulani_Hotel.jpg?utm_source=commons.wikimedia.org&utm_campaign=imageinfo&utm_content=thumbnail" alt="할레쿨라니 (House Without a Key)" loading="lazy" decoding="async"></a><figcaption><b>할레쿨라니 (House Without a Key)</b><small>© TastyPoutine · CC BY-SA 3.0</small></figcaption></figure></div><ol class="tl"><li><div class="t">08:00–08:40</div><div class="c"><div class="place">메리어트 Kuhio Beach Grill</div><div class="what">조식 (포함)</div></div></li><li><div class="t">08:40–09:00</div><div class="c"><div class="place">🧳 <strong>메리어트 체크아웃</strong> (11:00 마감 전에 미리)</div><div class="what">짐은 <strong>벨데스크에 16시쯤까지 보관</strong> — 차에 두지 않기 · <strong>작은형은 오전 개인 일정</strong> (차를 쓰면 우리는 우버 XL·택시)</div></div></li><li><div class="t">09:00–10:00</div><div class="c"><div class="place">🛍 <a href="https://www.google.com/maps/search/?api=1&query=KCC+Farmers+Market+Honolulu" target="_blank" rel="noopener"><strong>KCC 파머스마켓</strong></a> (토 07:30–11:00 · 택시 10분)</div><div class="what">구운 전복, 그린토마토 튀김, 열대과일 · 인기 품목 일찍 품절 · 작은형이 KCC까지 태워 주면 택시 한 번 줄어요</div><div class="park">🅿 택시 내리는 곳 (차면 Lot C·E 무료)</div></div></li><li><div class="t">10:15–12:00</div><div class="c"><div class="place">🖼 <a href="https://www.google.com/maps/search/?api=1&query=Honolulu+Museum+of+Art+900+S+Beretania+St+Honolulu" target="_blank" rel="noopener"><strong>호놀룰루 미술관 (HoMA)</strong></a> (900 S Beretania St · 토 10–18 · KCC에서 택시 약 15분)</div><div class="what">하와이 최대 미술관 (1927년 개관 · 5만 점 이상) · 반 고흐 「밀밭」·모네 「수련」·고갱 (전시 중인지 미리 확인) · 일본 우키요에 판화 1만 점 이상 (몇 달마다 교체) · 아시아·태평양·하와이 미술 · 안뜰 정원 · <strong>성인 $25 (18세 이하 무료) → 5명 $125</strong> · 카페는 입장권 없이도 이용</div><div class="park">🅿 택시 내리는 곳 (차면 뒤편 1111 Victoria St · 카드만 · 시간당 $3)</div></div></li><li><div class="t">12:10–13:15</div><div class="c"><div class="place">🛍 <a href="https://www.google.com/maps/search/?api=1&query=Ala+Moana+Center" target="_blank" rel="noopener"><strong>알라모아나 센터</strong></a> (10–20 · 미술관에서 택시 약 5분)</div><div class="what">점심: <strong>Liliha Bakery</strong> (Macy's 3층, 코코퍼프 · 🍴 <strong>로코모코는 여기서</strong>) 또는 Makai Market 푸드코트 · 쇼핑은 짧게 (미술관 뒤라 1시간 남짓 — 점심·장보기 위주) · Target(2층) · <strong>마지막 30분 Foodland Farms (몰 안)에서 상하지 않는 콘도 아침거리 장보기</strong> (우유·과일은 저녁에 콘도 근처 ABC 스토어에서) — 콘도에 커피·조미료·식용유·지퍼백 없음</div><div class="park">🅿 <strong>쇼핑객 무료</strong> — 몰 밖 용무로 세우면 견인</div></div></li><li><div class="t">13:15–13:45</div><div class="c"><div class="place">🚗 <strong>작은형 합류</strong> — 알라모아나로 데리러 와서 다이아몬드헤드로 (약 15분)</div></div></li><li><div class="t">14:00–16:00</div><div class="c"><div class="place">🥾 <a href="https://www.google.com/maps/search/?api=1&query=Diamond+Head+State+Monument" target="_blank" rel="noopener"><strong>다이아몬드헤드</strong></a> (오후로 옮김) · ✅ <strong>14:00–16:00 주차+입장 예약 완료 (11/5)</strong></div><div class="what"><strong>14:30까지 주차장 도착</strong> (늦으면 환불 불가 · 입장은 16:00 시간대가 마지막) · 입장 후 바로 등산 · 왕복 2.6km · +170m · 마지막 계단 · <strong>오후 햇볕이 가장 강한 시간 → 물 1인 1L·모자·선크림 필수</strong> · <strong>15:35~15:40 차량 복귀 목표</strong> — 늦으면 정상보다 시간 우선</div><div class="park">🅿 <strong>예약 주차 2시간 → 16:00까지 출차</strong></div><figure class="routemap"><img src="maps/hike-diamondhead.webp?v=4c3b9f01a6" loading="lazy" width="1000" height="640" alt="하이킹: 다이아몬드헤드 지도"><figcaption><div class="rm-stops"><b>🥾 다이아몬드헤드 코스</b> · <b>①</b> 주차장·입구 → <b>②</b> 정상 전망대</div><div class="rm-meta">왕복 2.6km · +171m · 마지막 계단·터널 · 초록 선 = 걷는 길 (대략)</div><div class="rm-links">🧭 구글 지도 <a href="https://www.google.com/maps/search/?api=1&amp;query=21.26354,-157.80603" target="_blank" rel="noopener">📍 입구</a></div></figcaption></figure></div></li><li><div class="t">16:05–16:40</div><div class="c"><div class="place">🧳 <strong>숙소 이동</strong> — 메리어트 벨데스크에서 짐 찾기 → 렌트카에 싣고 비치타워로 → <strong>체크인</strong> (15시부터 가능)</div><div class="what">도착하면 <strong>관리자에게 전화</strong> → 만나서 체크인 또는 셀프 체크인 안내 (관리자 연락처는 11/4 자동 발송 · 전화는 한국 번호 로밍 또는 작은형 폰) · 휴식</div><div class="park">🅿 <strong>발렛 1대 무료</strong> (높이 6'2" = 188cm · 차량 사전 등록 필요 없음 · 머무는 동안만 — 호스트 확인 11/3) · 차는 칼라카우아 → <strong>릴리우오칼라니 애비뉴</strong> 좌회전, 왼쪽 건물</div></div></li><li><div class="t">16:45–17:25</div><div class="c"><div class="place">🛍 <a href="https://www.google.com/maps/search/?api=1&query=International+Market+Place+Waikiki" target="_blank" rel="noopener"><strong>인터내셔널 마켓 플레이스 → 로열 하와이안 센터</strong></a> (토 10–21, 걸어서)</div><div class="what">콘도에서 칼라카우아 길을 따라 저녁 식당 가는 길 — 쇼핑 리뷰 순위 2·3위 (10,175 · 12,716) · 인터내셔널 마켓 플레이스 가운데 큰 반얀트리</div><div class="park">🅿 도보 (차는 콘도 발렛에 두기)</div></div></li><li><div class="t">17:30–17:55</div><div class="c"><div class="place">🌅 <strong>쿠히오 비치</strong> 일몰 (17:51)</div><div class="what">로열 하와이안 센터에서 해변 따라 걸어서 10분</div><div class="park">🅿 도보</div></div></li><li><div class="t">18:00–19:00</div><div class="c"><div class="place">🌺 <strong>쿠히오 비치 무료 훌라 쇼</strong> (화·목·토 · 11~1월 18:00)</div><div class="what">듀크 동상 옆 훌라 마운드 · 무료, 예약 없음 · 앉을 수건 있으면 좋아요 · 열리는지 현장 확인 (☎ 808-843-8002)</div><div class="park">🅿 도보</div></div></li><li><div class="t">19:15–20:45</div><div class="c"><div class="place">🍚 <a href="https://www.google.com/maps/search/?api=1&query=Restaurant+Suntory+Royal+Hawaiian+Center+Honolulu" target="_blank" rel="noopener"><strong>Restaurant SUNTORY</strong></a> (로열 하와이안 센터 B관 3층, 2233 Kalakaua · 저녁 17:00–21:30 · ☎ 808-922-5511)</div><div class="what">저녁 — 일식 (구글 1,280 ★4.5 · 스시·철판·와규) · 🍴 <strong>주문: 1인 1정식(와쇼쿠 세트) + 스시 모둠 하나</strong> · <strong>OpenTable 19:15 예약</strong> · <del>Maui Brewing</del>은 맥주집 분위기라 교체 (11/5 가족 의견)</div><div class="park">🅿 훌라 쇼에서 걸어서 5분 · 콘도까지 걸어서 10분</div></div></li></ol>
 
 
 <ul>
@@ -631,9 +631,9 @@ footer { max-width: 1100px; margin: 0 auto; padding: 0 16px 48px; color: var(--m
 </tr>
 <tr>
 <td data-label="끼니"><span class="v">저녁</span></td>
-<td data-label="식당"><span class="v">🍺 <strong>Maui Brewing Co. 와이키키</strong> (예약 19:15)</span></td>
-<td data-label="대표 메뉴 · 가격"><span class="v">직접 만든 하와이 맥주 · 버거·피자·포케 $18–28 <em>(추정)</em></span></td>
-<td data-label="분위기 · 특징"><span class="v"><strong>라이브 음악</strong> · 18:00 쿠히오 비치 무료 훌라 쇼를 보고 걸어서 5분<br>🍴 <strong>피자 · 피시 타코</strong><br>↔ <strong>겹침:</strong> 버거·나초 → 11/5 Yard House · 11/9 Waikiki Brewing / 피시 타코 → 11/9 Monkeypod (이틀 간격이라 괜찮아요)<br>👨👩👦 <strong>4인 세트:</strong> 화덕 피자 + 피시 타코 + 나초 + 샐러드 (후기 인기 조합)<br>🔁 <strong>안 맞으면:</strong> 치킨 윙 · 포케 <em>(추정)</em></span></td>
+<td data-label="식당"><span class="v">🍚 <strong>Restaurant SUNTORY</strong> (예약 19:15 · OpenTable)</span></td>
+<td data-label="대표 메뉴 · 가격"><span class="v">와쇼쿠 정식·스시·철판 (1인 $40~ <em>(추정)</em> · 철판 코스는 $100~)</span></td>
+<td data-label="분위기 · 특징"><span class="v">로열 하와이안 센터 3층 <strong>일식당</strong> — 하와이 음식과 완전히 달라요 · 차분한 분위기 · 훌라 쇼에서 걸어서 5분<br>🍴 <strong>1인 1정식 + 스시 모둠</strong><br>👨👩👦 <strong>4인 세트:</strong> 와쇼쿠 정식 ×3 + 스시 세트 1 (철판은 비싸서 선택)<br>🔁 <strong>안 맞으면:</strong> 샤부샤부·덴푸라 세트 <em>(현장 메뉴판)</em> / 원래 계획이던 Maui Brewing (걸어서 5분)<br>↔ <strong>겹침:</strong> 없음 — 이번 여행 유일한 일식이에요</span></td>
 </tr>
 </tbody>
 </table></div>
@@ -818,7 +818,7 @@ footer { max-width: 1100px; margin: 0 auto; padding: 0 16px 48px; color: var(--m
 <li><strong>멍키포드 키친 코올리나 (Monkeypod Kitchen by Merriman Ko Olina)</strong> · 서부 · 5,526 · ★4.4 — ✅ 11/9 점심 📖</li>
 <li><strong>에그스앤띵스 (Eggs 'n Things Waikiki)</strong> · 와이키키 · 5,209 · ★4.1 — ✅ 11/11 아침 · ↪ 11/8 아침 대안</li>
 <li><strong>그린 월드 커피 팜 (Green World Coffee Farm)</strong> · 중부 · 4,980 · ★4.6 — ✅ 11/8 커피 📖</li>
-<li><strong>마우이 브루잉 (Maui Brewing Co. Waikiki)</strong> · 와이키키 · 4,866 · ★4.1 — ✅ 11/7 저녁</li>
+<li><strong>마우이 브루잉 (Maui Brewing Co. Waikiki)</strong> · 와이키키 · 4,866 · ★4.1 — ↪ 11/7 저녁 대안 (11/5 교체)</li>
 <li><strong>테즈 베이커리 (Ted's Bakery)</strong> · 노스쇼어·라이에 · 4,682 · ★4.5 — 11/8에서 뺌 (헤이아우로)</li>
 <li><strong>울프강 스테이크하우스 (Wolfgang's Steakhouse Waikiki)</strong> · 와이키키 · 4,554 · ★4.2 — ↪ 11/9 저녁 대안</li>
 <li><strong>덱 (DECK. at Queen Kapiʻolani Hotel)</strong> · 와이키키 · 4,476 · ★4.4 — ✅ 11/4 저녁</li>
@@ -844,7 +844,7 @@ footer { max-width: 1100px; margin: 0 auto; padding: 0 16px 48px; color: var(--m
 <li><strong>부호 코치나 (BUHO Cocina y Cantina)</strong> · 와이키키 · 2,721 · ★4 —  📖</li>
 </ol>
 <ul>
-<li>순위 밖 일정 장소: 세븐 브라더스 라이에 (Seven Brothers Burgers Laie) 2,564 (11/10 점심) · 아란치노 디 마레 (Arancino di Mare) 2,489 (✅ 11/5 저녁 — 11/4 변경) · 코코 헤드 카페 (Koko Head Cafe) 2,245 (11/9 아침 대안) · 하우 트리 (Hau Tree (Kaimana Beach Hotel)) 1,975 (11/10 아침 대안) · 카페 카일라 (Cafe Kaila) 1,789 (11/9 아침) · 무스비 카페 이야스메 (Musubi Cafe Iyasume) 1,644 (11/11 간식) · 로미스 (Romy's Kahuku Prawns &amp; Shrimp) 1,598 (11/8 점심 대안) · 포티 나이너 (Forty Niner Restaurant Aiea) 1,573 (11/5 점심 대안) · Side Street Inn Waikiki 1,564 (11/5 저녁 대안) · 마노아 초콜릿 (Manoa Chocolate Hawaii (Kailua)) 1,509 (11/6 쇼핑) · 아일랜드 브루 커피하우스 (Island Brew Coffeehouse Hawaii Kai) 1,463 (11/6 커피) · 카이 커피 (Kai Coffee Hawaii) 1,397 (11/11 커피) · 릴리하 베이커리 알라모아나 (Liliha Bakery Ala Moana) 1,394 (11/7 점심) · 로이스 하와이카이 (Roy's Hawaii Kai) 1,283 (11/6 저녁 대안) · 칼라파와이 카페 (Kalapawai Cafe &amp; Deli) 1,268 (11/6 점심) · 미셸스 (Michel's at the Colony Surf) 1,249 (11/9 저녁 대안) · 하이웨이 인 와이파후 (Highway Inn Waipahu) 1,235 (11/5 점심 대안) · 메리먼스 호놀룰루 (Merriman's Honolulu) 1,077 (11/9 점심 대안) · 모에나 카페 (Moena Cafe) 933 (11/6 점심 대안) · 아일랜드 빈티지 커피 할레이바 (Island Vintage Coffee Haleiwa) 739 (11/8 아사이볼 대안) · 아일랜드 스노우 (Island Snow Hawaii) 648 (11/6 빙수) · 모닝 브루 (Morning Brew Kakaako) 545 (11/9 커피) · 로라 이모네 (Laura's Korean BBQ (Young's Lunch Wagon Korean BBQ)) 313 (11/8 점심 대안) · 호놀룰루 커피 베이커리 온 킹 (Honolulu Coffee Bakery on King) 56 (11/9 커피 대안) · 마카이 마켓 푸드코트 (Makai Market Food Court) 41 (11/7 점심 대안)</li>
+<li>순위 밖 일정 장소: 세븐 브라더스 라이에 (Seven Brothers Burgers Laie) 2,564 (11/10 점심) · 아란치노 디 마레 (Arancino di Mare) 2,489 (✅ 11/5 저녁 — 11/4 변경) · 레스토랑 산토리 (Restaurant SUNTORY) 1,280 ★4.5 (✅ 11/7 저녁 — 11/5 변경) · 코코 헤드 카페 (Koko Head Cafe) 2,245 (11/9 아침 대안) · 하우 트리 (Hau Tree (Kaimana Beach Hotel)) 1,975 (11/10 아침 대안) · 카페 카일라 (Cafe Kaila) 1,789 (11/9 아침) · 무스비 카페 이야스메 (Musubi Cafe Iyasume) 1,644 (11/11 간식) · 로미스 (Romy's Kahuku Prawns &amp; Shrimp) 1,598 (11/8 점심 대안) · 포티 나이너 (Forty Niner Restaurant Aiea) 1,573 (11/5 점심 대안) · Side Street Inn Waikiki 1,564 (11/5 저녁 대안) · 마노아 초콜릿 (Manoa Chocolate Hawaii (Kailua)) 1,509 (11/6 쇼핑) · 아일랜드 브루 커피하우스 (Island Brew Coffeehouse Hawaii Kai) 1,463 (11/6 커피) · 카이 커피 (Kai Coffee Hawaii) 1,397 (11/11 커피) · 릴리하 베이커리 알라모아나 (Liliha Bakery Ala Moana) 1,394 (11/7 점심) · 로이스 하와이카이 (Roy's Hawaii Kai) 1,283 (11/6 저녁 대안) · 칼라파와이 카페 (Kalapawai Cafe &amp; Deli) 1,268 (11/6 점심) · 미셸스 (Michel's at the Colony Surf) 1,249 (11/9 저녁 대안) · 하이웨이 인 와이파후 (Highway Inn Waipahu) 1,235 (11/5 점심 대안) · 메리먼스 호놀룰루 (Merriman's Honolulu) 1,077 (11/9 점심 대안) · 모에나 카페 (Moena Cafe) 933 (11/6 점심 대안) · 아일랜드 빈티지 커피 할레이바 (Island Vintage Coffee Haleiwa) 739 (11/8 아사이볼 대안) · 아일랜드 스노우 (Island Snow Hawaii) 648 (11/6 빙수) · 모닝 브루 (Morning Brew Kakaako) 545 (11/9 커피) · 로라 이모네 (Laura's Korean BBQ (Young's Lunch Wagon Korean BBQ)) 313 (11/8 점심 대안) · 호놀룰루 커피 베이커리 온 킹 (Honolulu Coffee Bakery on King) 56 (11/9 커피 대안) · 마카이 마켓 푸드코트 (Makai Market Food Court) 41 (11/7 점심 대안)</li>
 </ul>
 <h3 id="관광해변하이킹-상위-30">🏝 관광·해변·하이킹 (상위 30)</h3>
 <ol>
@@ -925,7 +925,7 @@ footer { max-width: 1100px; margin: 0 auto; padding: 0 16px 48px; color: var(--m
 - ★4.8 이상 대안은 '리뷰 쓰면 서비스' 여부를 검증해서 의심(⚠)이면 빼요 — 옐프 평점 차이 · 개업 시기 · 현지 글<br />
 - 그 대안이 현지 평가에서 "관광객용"이거나 호불호가 갈리고, 지금 장소에 <strong>지역 수상(Hale ʻAina 등)이나 현지인 추천</strong>이 있으면 그대로 둬요.<br />
 - <strong>마지막 만찬처럼 분위기가 목적인 끼니는 예외</strong>로 해요.</p>
-<p><strong>11/3 추가 변경:</strong> 비싼 저녁 3끼를 <strong>맥주집</strong>으로 바꿨어요 — 11/5 Yard House · 11/7 Maui Brewing 와이키키 · 11/9 Waikiki Brewing (모두 숙소에서 걸어가거나 택시 5분이라 운전자도 같이 마셔요) · <strong>11/4 현지 변경:</strong> 11/4 저녁 DECK.→마루가메 우동 · <strong>11/5 저녁 Yard House→Arancino di Mare</strong> (하와이식 연속·맥주집 분위기 비선호) · <strong>11/8 저녁 Haleiwa Joe's</strong> (16:30 저녁 시작 + 노을, 와이메아 베이 일몰 대신)<br />
+<p><strong>11/3 추가 변경:</strong> 비싼 저녁 3끼를 <strong>맥주집</strong>으로 바꿨어요 — 11/5 Yard House · 11/7 Maui Brewing 와이키키 · 11/9 Waikiki Brewing (모두 숙소에서 걸어가거나 택시 5분이라 운전자도 같이 마셔요) · <strong>11/4 현지 변경:</strong> 11/4 저녁 DECK.→마루가메 우동 · <strong>11/5 저녁 Yard House→Arancino di Mare · 11/7 저녁 Maui Brewing→Suntory(일식)</strong> (하와이식 연속·맥주집 분위기 비선호) · <strong>11/8 저녁 Haleiwa Joe's</strong> (16:30 저녁 시작 + 노을, 와이메아 베이 일몰 대신)<br />
 <strong>결과:</strong> 식사 <strong>4끼를 바꿨어요</strong> — 11/4 저녁 DECK. · 11/5 저녁 Tommy Bahama · 11/8 아침 Duke's 조식 뷔페 · 11/10 아침 Heavenly. 기준에 걸린 나머지 3끼(11/4 점심 · 11/7 점심 · 11/9 아침)는 비교해 보고 그대로 뒀어요. 커피 4곳은 앞서 바꿨고, 트로피컬 팜스는 선택 정차로 더했어요.<br />
 숫자는 11/3에 <strong>구글 지도 API로 직접 받은 값</strong>이에요(리뷰 수 · ★평점). "리뷰 수 1위"는 사람이 가장 많이 갔다는 뜻이고 맛 순위는 아니에요.</p>
 </blockquote>
@@ -1198,6 +1198,13 @@ footer { max-width: 1100px; margin: 0 auto; padding: 0 16px 48px; color: var(--m
 </tr>
 <tr>
 <td data-label="날짜 · 끼니"><span class="v">11/7 저녁</span></td>
+<td data-label="식당"><span class="v">🍚 Restaurant SUNTORY</span></td>
+<td data-label="대표 메뉴 · 가격"><span class="v">와쇼쿠 정식 $38~60 · 스시 모둠 $40~ · 철판 코스 $100~ <em>(모두 추정)</em></span></td>
+<td data-label="1인 예상"><span class="v">$45–80 <em>(추정)</em></span></td>
+<td data-label="비고"><span class="v">일식 · OpenTable 예약</span></td>
+</tr>
+<tr>
+<td data-label="날짜 · 끼니"><span class="v">11/7 대안</span></td>
 <td data-label="식당"><span class="v">🍺 Maui Brewing 와이키키</span></td>
 <td data-label="대표 메뉴 · 가격"><span class="v">버거·피자·포케 $18–28 · 맥주 $8–10 <em>(추정)</em></span></td>
 <td data-label="1인 예상"><span class="v">$20–35 <em>(추정)</em></span></td>
@@ -1538,7 +1545,8 @@ footer { max-width: 1100px; margin: 0 auto; padding: 0 16px 48px; color: var(--m
 <li><a href="https://www.google.com/maps/search/?api=1&amp;query=International+Market+Place+Waikiki" target="_blank" rel="noopener">인터내셔널 마켓 플레이스 — 저녁 전 걸어서</a></li>
 <li><a href="https://www.google.com/maps/search/?api=1&amp;query=Royal+Hawaiian+Center" target="_blank" rel="noopener">로열 하와이안 센터 — 저녁 전 걸어서</a></li>
 <li><a href="https://www.google.com/maps/search/?api=1&amp;query=Kuhio+Beach+Hula+Mound+Honolulu" target="_blank" rel="noopener">🌺 쿠히오 비치 훌라 쇼 (토 18:00, 무료)</a></li>
-<li><a href="https://www.google.com/maps/search/?api=1&amp;query=Maui+Brewing+Co+Waikiki+2300+Kalakaua+Ave+Honolulu" target="_blank" rel="noopener">🍺 Maui Brewing Co. 와이키키 — 저녁</a></li>
+<li><a href="https://www.google.com/maps/search/?api=1&amp;query=Restaurant+Suntory+Royal+Hawaiian+Center+Honolulu" target="_blank" rel="noopener">🍚 Restaurant SUNTORY — 저녁 (로열 하와이안 센터 3층)</a></li>
+<li><a href="https://www.google.com/maps/search/?api=1&amp;query=Maui+Brewing+Co+Waikiki+2300+Kalakaua+Ave+Honolulu" target="_blank" rel="noopener">Maui Brewing — 저녁 대안</a></li>
 <li><a href="https://www.google.com/maps/search/?api=1&amp;query=House+Without+a+Key+Halekulani" target="_blank" rel="noopener">House Without a Key — 저녁 대안 (매일 밤 훌라)</a></li>
 <li><a href="https://www.google.com/maps/search/?api=1&amp;query=Duke%27s+Waikiki" target="_blank" rel="noopener">Duke's Waikiki — 저녁 대안</a></li>
 </ul>
@@ -2126,7 +2134,7 @@ footer { max-width: 1100px; margin: 0 auto; padding: 0 16px 48px; color: var(--m
 · 🚗 13:15 작은형 합류 → 🥾 14:00 다이아몬드헤드
 · 🧳 16:05 메리어트에서 짐 찾아 콘도 이동 → 체크인
 · 🛍 16:45 걸어서 인터내셔널 마켓 플레이스 → 로열 하와이안 센터
-· 🌺 쿠히오 비치 무료 훌라 쇼 (18시) → 🍺 Maui Brewing
+· 🌺 쿠히오 비치 무료 훌라 쇼 (18시) → 🍚 Suntory (일식)
 
 11/8(일) 🐢 노스쇼어
 · 🍳 Duke's 조식 뷔페 → 🍍 돌 플랜테이션
@@ -2151,8 +2159,7 @@ footer { max-width: 1100px; margin: 0 auto; padding: 0 16px 48px; color: var(--m
 
 ✅ 남은 할 일
 · ✅ USS Arizona 10:45 예약 완료
-· 다이아몬드헤드 11/7 14:00 재예약
-· Buzz's · Maui Brewing · PCC 예약
+· 예약: Buzz's(11/6 전화) · Suntory(11/7 OpenTable) · Duke's 조식(11/8) · Heavenly(11/10) · PCC
 · ESTA · 여권 · eSIM 설치
 
 🎒 꼭 챙길 것
@@ -2164,8 +2171,8 @@ footer { max-width: 1100px; margin: 0 auto; padding: 0 16px 48px; color: var(--m
 <div class="kakao"><div class="kakao-bar"><span>💬 카톡에 그대로 붙여넣기</span><button class="copy-btn" type="button">📋 복사</button></div><pre class="kakao-text">[하와이 출발 전 체크리스트 (11/4 출발)]
 
 ■ 지금 예약·확인 (D-1)
-☐ 다이아몬드헤드 다시 예약 — 11/7 (토) 14:00–16:00 주차 + 5명 입장 · $35 · gostateparks.hawaii.gov/diamondhead · 10:00 예약은 취소함 (11/3 · 작은형 오전 개인 일정) · 14:30까지 주차장 도착 · 입장 QR 내려받아 폰에 저장
-☐ 저녁 예약 — DECK. 11/4 17:30 ✅ 예약 완료 (OpenTable · 서쪽 자리 요청) · Buzz's 11/6 (☎ 808-261-4661) · 🍺 Maui Brewing 와이키키 11/7 19:15 (OpenTable) · 11/5 Arancino(메리어트 1층)는 OpenTable 예약 권장 · 11/9 Waikiki Brewing은 예약 없이
+☑ 다이아몬드헤드 — ✅ 11/7 (토) 14:00–16:00 주차+5명 입장 예약 완료 (11/5 · $35) · 14:30까지 주차장 도착 · 입장 QR 1회용 → 폰에 저장
+☐ 저녁 예약 — DECK. 11/4 17:30 ✅ 예약 완료 (OpenTable · 서쪽 자리 요청) · Buzz's 11/6 (☎ 808-261-4661) · 🍚 Suntory 일식 11/7 19:15 (OpenTable · ☎ 808-922-5511) · 11/5 Arancino(메리어트 1층)는 OpenTable 예약 권장 · 11/9 Waikiki Brewing은 예약 없이
 ☐ 아침 예약 — Duke's 조식 뷔페 11/8 08:00 (OpenTable) · Heavenly 11/10 07:15 (5인 예약 되는지 전화 확인 ☎ 808-923-1100)
 ☐ PCC 패키지 — 11/10 (화) · 밤 운전 부담되면 왕복 버스 $28/인
 ☐ 대한항공 앱 — 서울팀 3명 모두 발권
@@ -2207,7 +2214,7 @@ footer { max-width: 1100px; margin: 0 auto; padding: 0 16px 48px; color: var(--m
 ☐ 위탁 수하물 23kg 초과 주의 — 귀국 때 아울렛 쇼핑 짐도
 ☐ 액체류 100ml 이하·투명 지퍼백 (총 1L) · 보조배터리는 기내 가방에</pre></div></section>
 </main>
-<footer>업데이트 2026-11-05 18:39 KST · 영업시간·주차는 2026-11-02 웹 조사 + Codex 검수 기준입니다. (미확인) 항목은 방문 전날 구글맵·전화로 다시 확인하세요. 체크 표시는 이 기기에만 저장됩니다. 사진: Wikimedia Commons 자유 이용 사진 — 사진을 누르면 저작자·라이선스 원문으로 이동합니다.</footer>
+<footer>업데이트 2026-11-05 18:41 KST · 영업시간·주차는 2026-11-02 웹 조사 + Codex 검수 기준입니다. (미확인) 항목은 방문 전날 구글맵·전화로 다시 확인하세요. 체크 표시는 이 기기에만 저장됩니다. 사진: Wikimedia Commons 자유 이용 사진 — 사진을 누르면 저작자·라이선스 원문으로 이동합니다.</footer>
 <button class="top-btn" id="topBtn" aria-label="맨 위로">↑</button>
 <script>
 (function () {
